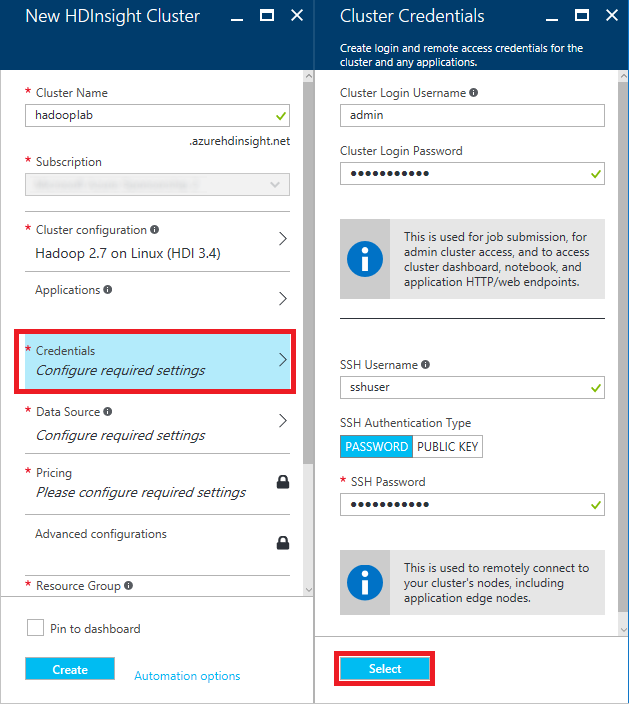
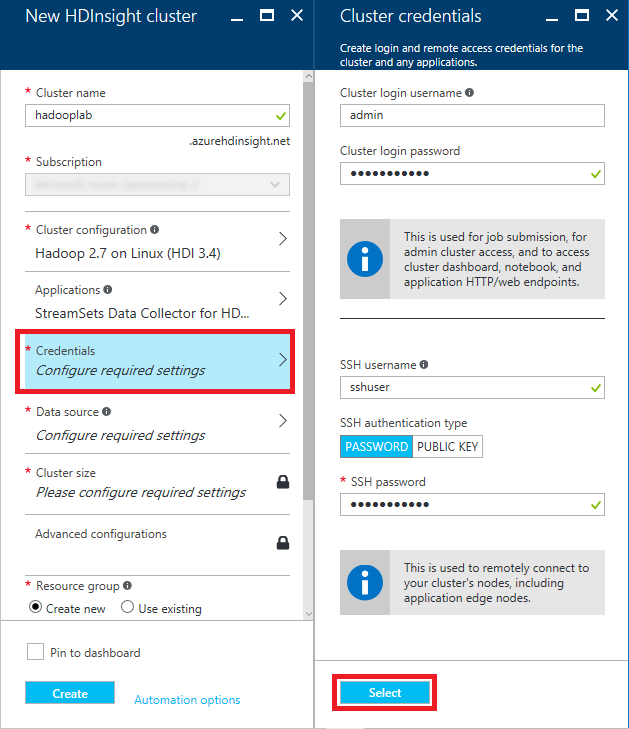
Updated HDInsight Hadoop lab

diff --git a/Big Data and Analytics/Azure HDInsight/Session 3 - Hands On/HDInsight Hadoop HOL.html b/Big Data and Analytics/Azure HDInsight/Session 3 - Hands On/HDInsight Hadoop HOL.html
@@ -489,8 +489,8 @@ vertical-align:1px;
 <h3>Prerequisites</h3>
 <p>The following are required to complete this hands-on lab:</p>
 <ul>
-<li>An active Microsoft Azure subscription, or <a href="http://aka.ms/WATK-FreeTrial">sign up for a free trial</a></li>
-<li>Windows users need to install	<a href="http://www.chiark.greenend.org.uk/%7Esgtatham/putty/download.html">PuTTY</a>, an open-source SSH client for Windows. Install the latest full package using the MSI installer.</li>
+<li>An active Microsoft Azure subscription. If you don't have one, <a href="http://aka.ms/WATK-FreeTrial">sign up for a free trial</a>.</li>
+<li><a href="http://www.chiark.greenend.org.uk/%7Esgtatham/putty/download.html">PuTTY</a> (Windows users only). Install the latest full package using the MSI installer.</li>
 </ul>
 <hr>
 <p><a name="Exercises"></a></p>
@@ -517,7 +517,7 @@ vertical-align:1px;
 <p><em>Creating an HDInsight cluster</em></p>
 </li>
 <li>
-<p>In the <strong>Cluster Name</strong> box, enter a unique DNS name for the cluster and make sure a green check mark appears next to it indicating that the name is valid and unique.</p>
+<p>In the <strong>Cluster name</strong> box, enter a unique DNS name for the cluster and make sure a green check mark appears next to it indicating that the name is valid and unique.</p>
 <blockquote>
 <p>In case someone else in the lab selects the same name, try to make it as unique as possible by including birth dates, initials, and anything else you care to add. The name you entered may be unique right now, but it might NOT be unique a few minutes into the deployment.</p>
 </blockquote>
@@ -525,32 +525,32 @@ vertical-align:1px;
 <p><em>Specifying the cluster name</em></p>
 </li>
 <li>
-<p>Click <strong>Cluster configuration</strong>. Then, in the ensuing blade, specify <strong>Hadoop</strong> as the <strong>Cluster Type</strong> and <strong>Linux</strong> as the <strong>Operating System</strong>, and accept the default version of Hadoop offered to you. Then select <strong>Standard</strong> as the <strong>Cluster Tier</strong>, and finish up by clicking the <strong>Select</strong> button at the bottom of the blade.</p>
+<p>Click <strong>Cluster configuration</strong>. Then, in the ensuing blade, select <strong>Hadoop</strong> as the <strong>Cluster type</strong> and <strong>Linux</strong> as the <strong>Operating system</strong>, and accept the default version of Hadoop offered to you. Make sure <strong>Standard</strong> is selected as the <strong>Cluster tier</strong>, and finish up by clicking the <strong>Select</strong> button at the bottom of the blade.</p>
 <p><a href="Images/cluster-type.png" target="_blank"><img src="Images/cluster-type.png" alt="Specifying the cluster type" style="max-width:100%;"></a></p>
 <p><em>Specifying the cluster type</em></p>
 </li>
 <li>
-<p>Click <strong>Applications</strong> and select <strong>StreamSets Data Collector HI</strong>. Then click the <strong>Select</strong> button at the bottom of the blade.</p>
+<p>Click <strong>Applications</strong> and select <strong>StreamSets Data Collector for HI</strong>. Accept the legal terms presented to you, and then click the <strong>Select</strong> button at the bottom of the blade.</p>
 <p><a href="Images/cluster-applications.png" target="_blank"><img src="Images/cluster-applications.png" alt="Specifying the installed applications" style="max-width:100%;"></a></p>
 <p><em>Specifying the installed applications</em></p>
 </li>
 <li>
-<p>Click <strong>Credentials</strong> to open a "Cluster Credentials" blade. Leave <strong>Cluster Login Username</strong> set to "admin" and set the <strong>Cluster Login Password</strong> to "Had00pdemo!" without quotation marks. (The fourth and fifth characters are zeroes, not capital Os.) Enter "sshuser" (without quotation marks) for the <strong>SSH Username</strong>, make sure <strong>SSH Authentication Type</strong> is set to <strong>Password</strong>, and enter "Had00pdemo!" (again without quotation marks) again for the <strong>SSH Password</strong>. Then click the <strong>Select</strong> button at the bottom of the blade.</p>
+<p>Click <strong>Credentials</strong> to open a "Cluster credentials" blade. Leave <strong>Cluster login username</strong> set to "admin" and set the <strong>Cluster login password</strong> to "Had00pdemo!" without quotation marks. (The fourth and fifth characters are zeroes, not capital Os.) Enter "sshuser" (without quotation marks) for the <strong>SSH Username</strong>, make sure <strong>SSH Authentication Type</strong> is set to <strong>PASSWORD</strong>, and enter "Had00pdemo!" (again without quotation marks) again for the <strong>SSH password</strong>. Then click the <strong>Select</strong> button at the bottom of the blade.</p>
 <p><a href="Images/cluster-credentials.png" target="_blank"><img src="Images/cluster-credentials.png" alt="Specifying cluster credentials" style="max-width:100%;"></a></p>
 <p><em>Specifying cluster credentials</em></p>
 </li>
 <li>
-<p>Click <strong>Data Source</strong> to open a "Data Source" blade. Leave <strong>Selection Method</strong> set to <strong>From all subscriptions</strong> and enter a unique storage-account name in the box below <strong>Create a new storage account</strong>. (Once more, try to make the name as unique as possible by including birth dates or other values that aren't likely to be used by someone else. You can use lowercase letters, numbers, and hyphens in the storage-account name. Make sure a green check mark appears indicating that the name is valid and unique) For <strong>Choose Default Container</strong>, enter "hadoop" (without quotation marks). Select the <strong>Location</strong> nearest you, and then click the <strong>Select</strong> button at the bottom of the blade.</p>
+<p>Click <strong>Data source</strong> to open a "Data source" blade. Set <strong>Selection method</strong> to <strong>From all subscriptions</strong> and enter a unique storage-account name in the box below <strong>Create a new Storage account</strong>. (Once more, try to make the name as unique as possible by including birth dates or other values that aren't likely to be used by someone else. You can use lowercase letters, numbers, and hyphens in the storage-account name. Make sure a green check mark appears indicating that the name is valid and unique) For <strong>Default container</strong>, enter "hadoop" (without quotation marks). Select the <strong>Location</strong> nearest you, and then click the <strong>Select</strong> button at the bottom of the blade.</p>
 <p><a href="Images/data-source.png" target="_blank"><img src="Images/data-source.png" alt="Specifying the data source" style="max-width:100%;"></a></p>
 <p><em>Specifying the data source</em></p>
 </li>
 <li>
-<p>Click <strong>Pricing</strong> to open a "Pricing" blade. Make sure <strong>Number of Worker nodes</strong> is set to <strong>4</strong> and accept the default values everywhere else. Then click the <strong>Select</strong> button at the bottom of the blade.</p>
-<p><a href="Images/pricing.png" target="_blank"><img src="Images/pricing.png" alt="Specifying the pricing" style="max-width:100%;"></a></p>
+<p>Click <strong>Cluster size</strong> to open a "Pricing" blade. Make sure <strong>Number of Worker nodes</strong> is set to <strong>4</strong> and accept the default values everywhere else. Then click the <strong>Select</strong> button at the bottom of the blade.</p>
+<p><a href="Images/cluster-size.png" target="_blank"><img src="Images/cluster-size.png" alt="Specifying the pricing" style="max-width:100%;"></a></p>
 <p><em>Specifying the pricing</em></p>
 </li>
 <li>
-<p>Select <strong>Create new</strong> under <strong>Resource Group</strong> and enter "HadoopLabResourceGroup" (without quotation marks) as the resource-group name. Then click the <strong>Create</strong> button at the bottom of the blade to begin deploying the cluster.</p>
+<p>Select <strong>Create new</strong> under <strong>Resource group</strong> and enter "HadoopLabResourceGroup" (without quotation marks) as the resource-group name. Then click the <strong>Create</strong> button at the bottom of the blade to begin deploying the cluster.</p>
 <p><a href="Images/resource-group.png" target="_blank"><img src="Images/resource-group.png" alt="Specifying a resource group and creating the cluster" style="max-width:100%;"></a></p>
 <p><em>Specifying a resource group and creating the cluster</em></p>
 </li>
@@ -567,7 +567,7 @@ vertical-align:1px;
 <p><a name="Exercise2"></a></p>
 <h2>Exercise 2: Connect to the cluster via SSH</h2>
 <p>Before you can run jobs on the Hadoop cluster, you need to open an SSH connection to it so you can execute commands on the cluster. In this exercise, you will remote into the cluster via SSH using the <strong>ssh</strong> command if you are running macOS or Linux, or PuTTY if you are running Windows. If you are a Windows user and haven't installed PuTTY, take the time to <a href="http://www.chiark.greenend.org.uk/%7Esgtatham/putty/download.html">install it now</a>.</p>
-<p><strong>If you're a Windows user, skip to Step 2</strong>. Otherwise, proceed to Step 1.</p>
+<p><strong>If you are running Windows, skip to Step 2</strong>. Otherwise, proceed to Step 1.</p>
 <ol>
 <li>
 <p><strong>Linux and macOS users only</strong>: Open a terminal window so you can use the <strong>ssh</strong> command to establish a connection. Execute the following command in the terminal window, replacing <em>clustername</em> with the cluster name you entered in Exercise 1, Step 3:</p>
@@ -641,25 +641,25 @@ Time taken: 0.58 seconds, Fetched: 3 row(s)
 <ol>
 <li>
 <p>Before you start, take a moment to read over the Python code for the mapper you will be using:</p>
-<div class="highlight highlight-source-python"><pre><span class="pl-c">#!/usr/bin/env python</span>
+<div class="highlight highlight-source-python"><pre><span class="pl-c"><span class="pl-c">#</span>!/usr/bin/env python</span>
 
-<span class="pl-c"># Use the sys module</span>
+<span class="pl-c"><span class="pl-c">#</span> Use the sys module</span>
 <span class="pl-k">import</span> sys
 
-<span class="pl-c"># 'file' in this case is STDIN</span>
+<span class="pl-c"><span class="pl-c">#</span> 'file' in this case is STDIN</span>
 <span class="pl-k">def</span> <span class="pl-en">read_input</span>(<span class="pl-smi">file</span>):
-    <span class="pl-c"># Split each line into words</span>
+    <span class="pl-c"><span class="pl-c">#</span> Split each line into words</span>
     <span class="pl-k">for</span> line <span class="pl-k">in</span> <span class="pl-v">file</span>:
         <span class="pl-k">yield</span> line.split()
 
 <span class="pl-k">def</span> <span class="pl-en">main</span>(<span class="pl-smi">separator</span><span class="pl-k">=</span><span class="pl-s"><span class="pl-pds">'</span><span class="pl-cce">\t</span><span class="pl-pds">'</span></span>):
-    <span class="pl-c"># Read the data using read_input</span>
+    <span class="pl-c"><span class="pl-c">#</span> Read the data using read_input</span>
     data <span class="pl-k">=</span> read_input(sys.stdin)
-    <span class="pl-c"># Process each words returned from read_input</span>
+    <span class="pl-c"><span class="pl-c">#</span> Process each words returned from read_input</span>
     <span class="pl-k">for</span> words <span class="pl-k">in</span> data:
-        <span class="pl-c"># Process each word</span>
+        <span class="pl-c"><span class="pl-c">#</span> Process each word</span>
         <span class="pl-k">for</span> word <span class="pl-k">in</span> words:
-            <span class="pl-c"># Write to STDOUT</span>
+            <span class="pl-c"><span class="pl-c">#</span> Write to STDOUT</span>
             <span class="pl-c1">print</span> <span class="pl-s"><span class="pl-pds">'</span><span class="pl-c1">%s%s%d</span><span class="pl-pds">'</span></span> <span class="pl-k">%</span> (word, separator, <span class="pl-c1">1</span>)
 
 <span class="pl-k">if</span> <span class="pl-c1">__name__</span> <span class="pl-k">==</span> <span class="pl-s"><span class="pl-pds">"</span>__main__<span class="pl-pds">"</span></span>:
@@ -668,36 +668,36 @@ Time taken: 0.58 seconds, Fetched: 3 row(s)
 </li>
 <li>
 <p>Now take a moment to examine the reducer:</p>
-<div class="highlight highlight-source-python"><pre><span class="pl-c">#!/usr/bin/env python</span>
+<div class="highlight highlight-source-python"><pre><span class="pl-c"><span class="pl-c">#</span>!/usr/bin/env python</span>
 
-<span class="pl-c"># import modules</span>
+<span class="pl-c"><span class="pl-c">#</span> import modules</span>
 <span class="pl-k">from</span> itertools <span class="pl-k">import</span> groupby
 <span class="pl-k">from</span> operator <span class="pl-k">import</span> itemgetter
 <span class="pl-k">import</span> sys
 
-<span class="pl-c"># 'file' in this case is STDIN</span>
+<span class="pl-c"><span class="pl-c">#</span> 'file' in this case is STDIN</span>
 <span class="pl-k">def</span> <span class="pl-en">read_mapper_output</span>(<span class="pl-smi">file</span>, <span class="pl-smi">separator</span><span class="pl-k">=</span><span class="pl-s"><span class="pl-pds">'</span><span class="pl-cce">\t</span><span class="pl-pds">'</span></span>):
-    <span class="pl-c"># Go through each line</span>
+    <span class="pl-c"><span class="pl-c">#</span> Go through each line</span>
     <span class="pl-k">for</span> line <span class="pl-k">in</span> <span class="pl-v">file</span>:
-        <span class="pl-c"># Strip out the separator character</span>
+        <span class="pl-c"><span class="pl-c">#</span> Strip out the separator character</span>
         <span class="pl-k">yield</span> line.rstrip().split(separator, <span class="pl-c1">1</span>)
 
 <span class="pl-k">def</span> <span class="pl-en">main</span>(<span class="pl-smi">separator</span><span class="pl-k">=</span><span class="pl-s"><span class="pl-pds">'</span><span class="pl-cce">\t</span><span class="pl-pds">'</span></span>):
-    <span class="pl-c"># Read the data using read_mapper_output</span>
+    <span class="pl-c"><span class="pl-c">#</span> Read the data using read_mapper_output</span>
     data <span class="pl-k">=</span> read_mapper_output(sys.stdin, <span class="pl-v">separator</span><span class="pl-k">=</span>separator)
-    <span class="pl-c"># Group words and counts into 'group'</span>
-    <span class="pl-c">#   Since MapReduce is a distributed process, each word</span>
-    <span class="pl-c">#   may have multiple counts. 'group' will have all counts</span>
-    <span class="pl-c">#   which can be retrieved using the word as the key.</span>
+    <span class="pl-c"><span class="pl-c">#</span> Group words and counts into 'group'</span>
+    <span class="pl-c"><span class="pl-c">#</span>   Since MapReduce is a distributed process, each word</span>
+    <span class="pl-c"><span class="pl-c">#</span>   may have multiple counts. 'group' will have all counts</span>
+    <span class="pl-c"><span class="pl-c">#</span>   which can be retrieved using the word as the key.</span>
     <span class="pl-k">for</span> current_word, group <span class="pl-k">in</span> groupby(data, itemgetter(<span class="pl-c1">0</span>)):
         <span class="pl-k">try</span>:
-            <span class="pl-c"># For each word, pull the count(s) for the word</span>
-            <span class="pl-c">#   from 'group' and create a total count</span>
+            <span class="pl-c"><span class="pl-c">#</span> For each word, pull the count(s) for the word</span>
+            <span class="pl-c"><span class="pl-c">#</span>   from 'group' and create a total count</span>
             total_count <span class="pl-k">=</span> <span class="pl-c1">sum</span>(<span class="pl-c1">int</span>(count) <span class="pl-k">for</span> current_word, count <span class="pl-k">in</span> group)
-            <span class="pl-c"># Write to stdout</span>
+            <span class="pl-c"><span class="pl-c">#</span> Write to stdout</span>
             <span class="pl-c1">print</span> <span class="pl-s"><span class="pl-pds">"</span><span class="pl-c1">%s%s%d</span><span class="pl-pds">"</span></span> <span class="pl-k">%</span> (current_word, separator, total_count)
         <span class="pl-k">except</span> <span class="pl-c1">ValueError</span>:
-            <span class="pl-c"># Count was not a number, so do nothing</span>
+            <span class="pl-c"><span class="pl-c">#</span> Count was not a number, so do nothing</span>
             <span class="pl-k">pass</span>
 
 <span class="pl-k">if</span> <span class="pl-c1">__name__</span> <span class="pl-k">==</span> <span class="pl-s"><span class="pl-pds">"</span>__main__<span class="pl-pds">"</span></span>:

diff --git a/Big Data and Analytics/Azure HDInsight/Session 3 - Hands On/HDInsight Hadoop HOL.md b/Big Data and Analytics/Azure HDInsight/Session 3 - Hands On/HDInsight Hadoop HOL.md
@@ -27,8 +27,8 @@ In this hands-on lab, you will learn how to:
 
 The following are required to complete this hands-on lab:
 
-- An active Microsoft Azure subscription, or [sign up for a free trial](http://aka.ms/WATK-FreeTrial)
-- Windows users need to install	[PuTTY](http://www.chiark.greenend.org.uk/~sgtatham/putty/download.html), an open-source SSH client for Windows. Install the latest full package using the MSI installer.
+- An active Microsoft Azure subscription. If you don't have one, [sign up for a free trial](http://aka.ms/WATK-FreeTrial).
+- [PuTTY](http://www.chiark.greenend.org.uk/~sgtatham/putty/download.html) (Windows users only). Install the latest full package using the MSI installer.
 
 ---
 <a name="Exercises"></a>
@@ -57,7 +57,7 @@ In this exercise, you will use the Azure Portal to deploy an HDInsight Hadoop cl
 
     _Creating an HDInsight cluster_
 
-1. In the **Cluster Name** box, enter a unique DNS name for the cluster and make sure a green check mark appears next to it indicating that the name is valid and unique.
+1. In the **Cluster name** box, enter a unique DNS name for the cluster and make sure a green check mark appears next to it indicating that the name is valid and unique.
 
 	> In case someone else in the lab selects the same name, try to make it as unique as possible by including birth dates, initials, and anything else you care to add. The name you entered may be unique right now, but it might NOT be unique a few minutes into the deployment.
 
@@ -65,37 +65,37 @@ In this exercise, you will use the Azure Portal to deploy an HDInsight Hadoop cl
 
     _Specifying the cluster name_
 
-1. Click **Cluster configuration**. Then, in the ensuing blade, specify **Hadoop** as the **Cluster Type** and **Linux** as the **Operating System**, and accept the default version of Hadoop offered to you. Then select **Standard** as the **Cluster Tier**, and finish up by clicking the **Select** button at the bottom of the blade.
+1. Click **Cluster configuration**. Then, in the ensuing blade, select **Hadoop** as the **Cluster type** and **Linux** as the **Operating system**, and accept the default version of Hadoop offered to you. Make sure **Standard** is selected as the **Cluster tier**, and finish up by clicking the **Select** button at the bottom of the blade.
 
     ![Specifying the cluster type](Images/cluster-type.png)
 
     _Specifying the cluster type_
 
-1. Click **Applications** and select **StreamSets Data Collector HI**. Then click the **Select** button at the bottom of the blade.
+1. Click **Applications** and select **StreamSets Data Collector for HI**. Accept the legal terms presented to you, and then click the **Select** button at the bottom of the blade.
 
     ![Specifying the installed applications](Images/cluster-applications.png)
 
     _Specifying the installed applications_
 
-1. Click **Credentials** to open a "Cluster Credentials" blade. Leave **Cluster Login Username** set to "admin" and set the **Cluster Login Password** to "Had00pdemo!" without quotation marks. (The fourth and fifth characters are zeroes, not capital Os.) Enter "sshuser" (without quotation marks) for the **SSH Username**, make sure **SSH Authentication Type** is set to **Password**, and enter "Had00pdemo!" (again without quotation marks) again for the **SSH Password**. Then click the **Select** button at the bottom of the blade.
+1. Click **Credentials** to open a "Cluster credentials" blade. Leave **Cluster login username** set to "admin" and set the **Cluster login password** to "Had00pdemo!" without quotation marks. (The fourth and fifth characters are zeroes, not capital Os.) Enter "sshuser" (without quotation marks) for the **SSH Username**, make sure **SSH Authentication Type** is set to **PASSWORD**, and enter "Had00pdemo!" (again without quotation marks) again for the **SSH password**. Then click the **Select** button at the bottom of the blade.
 
     ![Specifying cluster credentials](Images/cluster-credentials.png)
 
     _Specifying cluster credentials_
 
-1. Click **Data Source** to open a "Data Source" blade. Leave **Selection Method** set to **From all subscriptions** and enter a unique storage-account name in the box below **Create a new storage account**. (Once more, try to make the name as unique as possible by including birth dates or other values that aren't likely to be used by someone else. You can use lowercase letters, numbers, and hyphens in the storage-account name. Make sure a green check mark appears indicating that the name is valid and unique) For **Choose Default Container**, enter "hadoop" (without quotation marks). Select the **Location** nearest you, and then click the **Select** button at the bottom of the blade.
+1. Click **Data source** to open a "Data source" blade. Set **Selection method** to **From all subscriptions** and enter a unique storage-account name in the box below **Create a new Storage account**. (Once more, try to make the name as unique as possible by including birth dates or other values that aren't likely to be used by someone else. You can use lowercase letters, numbers, and hyphens in the storage-account name. Make sure a green check mark appears indicating that the name is valid and unique) For **Default container**, enter "hadoop" (without quotation marks). Select the **Location** nearest you, and then click the **Select** button at the bottom of the blade.
 
     ![Specifying the data source](Images/data-source.png)
 
     _Specifying the data source_
 
-1. Click **Pricing** to open a "Pricing" blade. Make sure **Number of Worker nodes** is set to **4** and accept the default values everywhere else. Then click the **Select** button at the bottom of the blade.
+1. Click **Cluster size** to open a "Pricing" blade. Make sure **Number of Worker nodes** is set to **4** and accept the default values everywhere else. Then click the **Select** button at the bottom of the blade.
 
-    ![Specifying the pricing](Images/pricing.png)
+    ![Specifying the pricing](Images/cluster-size.png)
 
     _Specifying the pricing_
 
-1. Select **Create new** under **Resource Group** and enter "HadoopLabResourceGroup" (without quotation marks) as the resource-group name. Then click the **Create** button at the bottom of the blade to begin deploying the cluster.
+1. Select **Create new** under **Resource group** and enter "HadoopLabResourceGroup" (without quotation marks) as the resource-group name. Then click the **Create** button at the bottom of the blade to begin deploying the cluster.
 
     ![Specifying a resource group and creating the cluster](Images/resource-group.png)
 
@@ -116,7 +116,7 @@ In this exercise, you learned how to provision an HDInsight Hadoop cluster on Az
 
 Before you can run jobs on the Hadoop cluster, you need to open an SSH connection to it so you can execute commands on the cluster. In this exercise, you will remote into the cluster via SSH using the **ssh** command if you are running macOS or Linux, or PuTTY if you are running Windows. If you are a Windows user and haven't installed PuTTY, take the time to [install it now](http://www.chiark.greenend.org.uk/~sgtatham/putty/download.html).
 
-**If you're a Windows user, skip to Step 2**. Otherwise, proceed to Step 1.
+**If you are running Windows, skip to Step 2**. Otherwise, proceed to Step 1.
 
 1. **Linux and macOS users only**: Open a terminal window so you can use the **ssh** command to establish a connection. Execute the following command in the terminal window, replacing *clustername* with the cluster name you entered in Exercise 1, Step 3:
 
